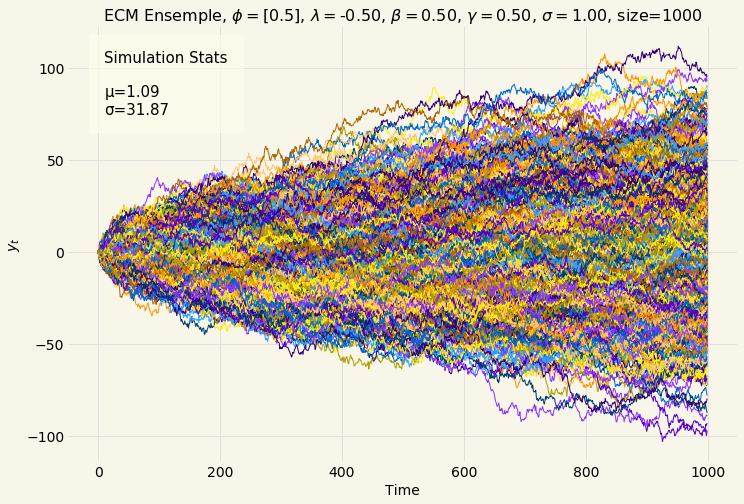
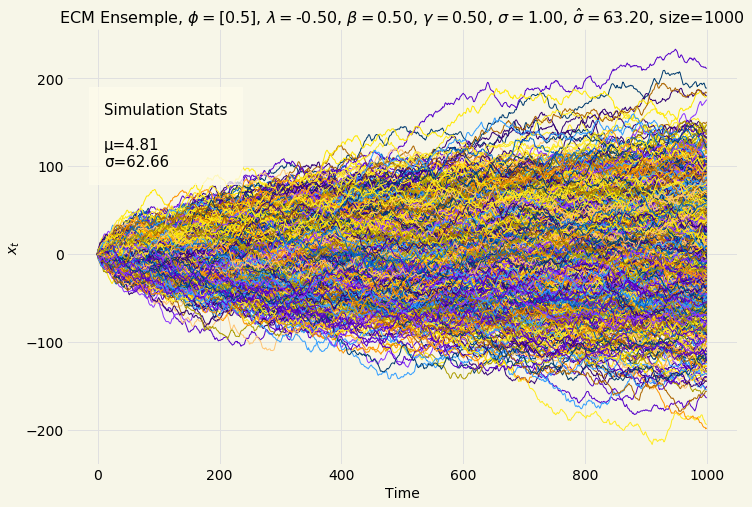
added xt variance calculation

diff --git a/hydrogen_notebooks/algorithmic_trading/mean_reversion/ecm_properties.py b/hydrogen_notebooks/algorithmic_trading/mean_reversion/ecm_properties.py
@@ -105,6 +105,12 @@ def corrletation_plot(xt, yt, params, err, β_r_squared, legend_anchor, title, p
     axis.legend(bbox_to_anchor=legend_anchor).set_zorder(7)
     config.save_post_asset(figure, "mean_reversion", plot_name)
 
+def var_xt(φ, n):
+    sum = 0.0
+    for k in range(1, n):
+        sum += 2.0*(n-k)*φ**k
+    return (n+sum) / (1-φ**2)
+
 # %%
 
 arima_params = {"φ": numpy.array([0.5]), "δ": numpy.array([]), "d": 1}
@@ -117,7 +123,9 @@ samples = generate_ensemble(arima_params, ecm_params, n, m)
 
 # %%
 
-title = f"ECM Ensemple, " + r"$\phi=$" + f"{numpy.array2string(arima_params['φ'], precision=2, separator=',')}, " + r"$\lambda=$" + f"{format(ecm_params['λ'], '2.2f')}, " + r"$\beta=$" + f"{format(ecm_params['β'], '2.2f')}, " + r"$\gamma=$" + f"{format(ecm_params['γ'], '2.2f')}, " + r"$\sigma=$" + f"{format(ecm_params['σ'], '2.2f')}, size={m}"
+σ = numpy.sqrt(var_xt(arima_params['φ'][0], n))
+
+title = f"ECM Ensemple, " + r"$\phi=$" + f"{numpy.array2string(arima_params['φ'], precision=2, separator=',')}, " + r"$\lambda=$" + f"{format(ecm_params['λ'], '2.2f')}, " + r"$\beta=$" + f"{format(ecm_params['β'], '2.2f')}, " + r"$\gamma=$" + f"{format(ecm_params['γ'], '2.2f')}, " + r"$\sigma=$" + f"{format(ecm_params['σ'], '2.2f')}, " + r"$\hat{\sigma}=$" + f"{format(σ, '2.2f')}, size={m}"
 plot_name = f"ecm_properies_ensemble_x_t{image_postfix}"
 ylab = r"$x_t$"
 ensemble_plot(samples[0::2], [10.0, 100.0], title, ylab, plot_name)
